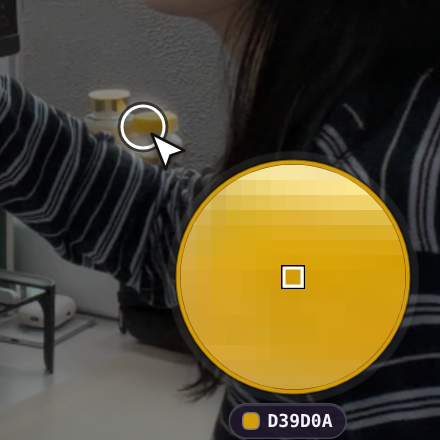
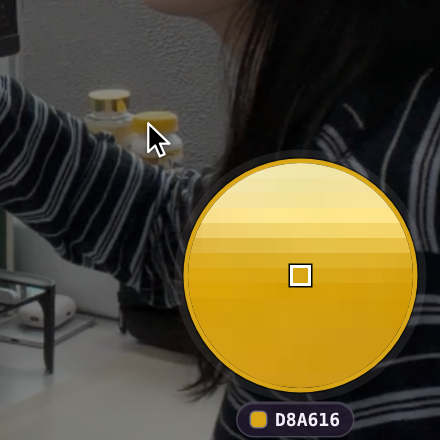
기능 1 예시: 실제 맥 포인터 모양으로
Claude-Session: https://claude.ai/code/session_01EN3DvmfasgiLr1rD7UWmUP

Changed region(s): [[0.3841, 0.3545, 0.975, 1.0], [0.2659, 0.2068, 0.4136, 0.3841]]

diff --git a/index.html b/index.html
@@ -199,7 +199,7 @@
     <h2>이런 걸 할 수 있어요</h2>
     <p class="sub2">컴퓨터에 설치하는 위젯이라<br>캡컷 · 파이널컷 · 프리미어 · 일러스트 등<br>어떤 프로그램을 쓰든 같이 쓸 수 있어요.</p>
     <div class="grid4">
-      <div class="feat"><img class="shot" src="img2/feat1.png?v=2"><div class="n">기능 1</div><h3>어디서든 색 수집, 자동 복사</h3><p>위젯을 누르거나 단축키를 누르면 확대경이 떠요.<br>원하는 곳을 찍는 순간 컬러값이 복사돼요.</p></div>
+      <div class="feat"><img class="shot" src="img2/feat1.png?v=3"><div class="n">기능 1</div><h3>어디서든 색 수집, 자동 복사</h3><p>위젯을 누르거나 단축키를 누르면 확대경이 떠요.<br>원하는 곳을 찍는 순간 컬러값이 복사돼요.</p></div>
       <div class="feat"><img class="shot c" src="img2/img.png"><div class="n">기능 2</div><h3>이미지·화면에서 색 조합 뽑기</h3><p>화면을 캡처하거나 이미지를 넣으면<br>추천 조합 5색과 많이 쓰인 색 8개를 뽑아줘요.<br>바로 프로젝트에 저장할 수 있어요.</p></div>
       <div class="feat"><img class="shot c" src="img2/f3.png"><div class="n">기능 3</div><h3>0202 기본 컬러 조합</h3><p>예능 자막, 정보·뉴스 그래픽, 브이로그 감성,<br>파스텔, 시네마틱, 레트로·Y2K, 무채색까지<br>바로 쓸 수 있는 조합이 들어 있어요.</p></div>
       <div class="feat"><img class="shot" src="img2/feat4.png"><div class="n">기능 4</div><h3>프로젝트별 관리 · 팀 공유</h3><p>클라이언트·채널별 폴더에 색을 모아두고,<br>컬러칩 이미지나 공유 코드로 팀원에게 넘겨줘요.<br>폴더 이름까지 그대로 가요.</p></div>
@@ -221,7 +221,7 @@
     <h2>사용 방법</h2>
     <p class="sub2">자주 쓰는 것부터 순서대로 모았어요.</p>
     <div class="use">
-      <div class="row"><div class="im "><img src="img2/loupe.png?v=2"></div><div><h3>🎯 색 뽑기</h3><ol><li>화면의 동그란 위젯 클릭<br>또는 단축키 <b>⌥⌘C</b> (윈도우 <b>Ctrl+Alt+C</b>)</li><li>확대경이 뜨면 원하는 곳 클릭</li><li>컬러값이 바로 복사돼요 · 취소는 Esc</li></ol></div></div>
+      <div class="row"><div class="im "><img src="img2/loupe.png?v=3"></div><div><h3>🎯 색 뽑기</h3><ol><li>화면의 동그란 위젯 클릭<br>또는 단축키 <b>⌥⌘C</b> (윈도우 <b>Ctrl+Alt+C</b>)</li><li>확대경이 뜨면 원하는 곳 클릭</li><li>컬러값이 바로 복사돼요 · 취소는 Esc</li></ol></div></div>
       <div class="row"><div class="im "><img src="img2/img.png"></div><div><h3>🖼 화면 캡처·이미지로<br>색 조합 뽑기</h3><ol><li><b>화면 영역 캡처</b> → 원하는 영역 드래그</li><li>이미지 파일은 <b>이미지에서 색 추출</b><br>또는 팔레트에 끌어놓기</li><li>추천 조합을 프로젝트에 저장</li></ol></div></div>
       <div class="row"><div class="im "><img src="img2/drag.png"></div><div><h3>✋ 드래그앤드롭으로 저장</h3><ol><li>최근 색을 프로젝트 폴더로 끌어놓기</li><li>폴더 안에서 끌면 순서 변경</li><li><b>⌥(Alt)</b>를 누른 채 끌면 복제</li></ol></div></div>
       <div class="row"><div class="im "><img src="img2/plus.png"></div><div><h3>➕ 지금 색 바로 넣기</h3><ol><li>폴더 맨 끝 점선 <b>＋</b> 클릭</li><li>현재 색이 맨 앞에 추가돼요</li><li>＋를 우클릭하면 색 고르기 창</li></ol></div></div>

diff --git a/preview/index.html b/preview/index.html
@@ -14,5 +14,5 @@ h1{font-size:22px;line-height:1.4;margin-bottom:14px}.pr s{color:#aaa;margin-rig
 <header>공이공이 프로덕션 <span style="font-weight:400;color:#999;font-size:13px">· 상세페이지 미리보기</span></header>
 <div class="top"><img src="../store/thumbnail.png"><div><h1>0202Swatch - 어디서든 색 뽑는 스와치 위젯 (맥/윈도우)</h1><div class="pr"><s>9,900원</s><b>4,900원</b></div><div class="btn">구매하기</div></div></div>
 <div class="tabs"><span>상세정보</span></div>
-<div class="detail"><img src="detail.jpg?v=4"></div>
+<div class="detail"><img src="detail.jpg?v=5"></div>
 </body></html>
